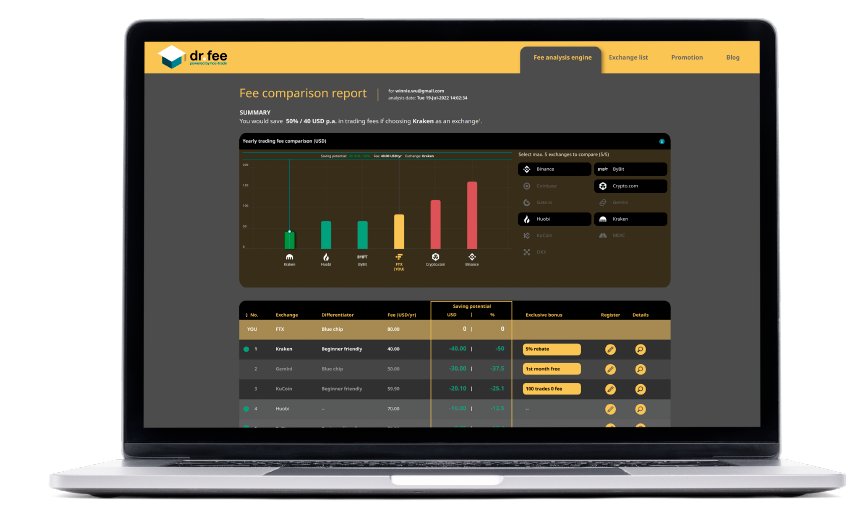
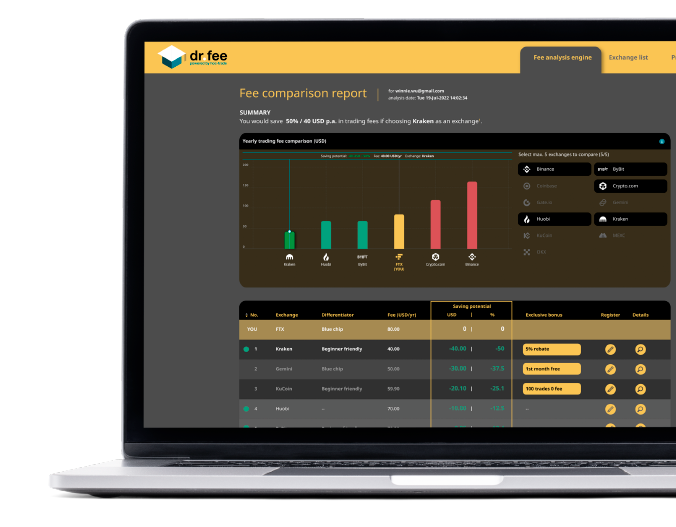
updates

diff --git a/landing-drfee.css b/landing-drfee.css
@@ -391,9 +391,9 @@ p.intro {
 	padding: 20px 12px;
 	max-width: 1024px;
 }
-@media only screen and (max-width: 768px) {
+@media only screen and (max-width: 1024px) {
 	.main-container {
-		padding: 20px 10px;
+		padding: 20px 20px;
 		max-width: calc(100% - 20px);
 	}
 }
@@ -1353,27 +1353,23 @@ a.btn-share:hover {
 /* topbanner */
 .topbanner {
 	display:flex;
-	justify-content:center;
+	justify-content:space-between;
 	align-items:flex-end;
 	position:relative;
-	height:calc(100vh - 100px);
+	padding:80px 0 0 0;
+	/*height:calc(100vh - 100px);*/
 	width:100vw;
 	background-image: url("img/top-theme-bg.png");
 	background-position: center;
 	background-size:cover;
-}
-@media only screen and (max-width: 768px) {
-	.topbanner {
-		height:calc(60vh - 70px);
-	}
 }
 .topbanner-headlines {
 	display:flex;
 	flex-direction:column;
 	justify-content: flex-end;
 	align-items: flex-start;
-	width:calc(50vw);
-	padding: 0 0 0 calc(50vw - 500px);
+	width:calc(50vw - 20px);
+	padding: 0 20px 0 calc(50vw - 500px);
 }
 @media only screen and (max-width: 768px) {
 	.topbanner-headlines {
@@ -1402,15 +1398,36 @@ a.btn-share:hover {
 	font-size:18px;
 	line-height: 1.25em;
 }
+@media only screen and (max-width: 768px) {
+	.headline-box h1, .headline-box h2, .headline-box h3, .headline-box p {
+		margin:0 20px 10px 0;
+	}
+	.headline-box h1 {
+		font-size:10vw;
+		line-height:0.75em;
+	}
+	.headline-box h2 {
+		font-size:3vw;
+		line-height: 1em;
+	}
+	.headline-box h3 {
+		font-size:18px;
+		line-height: 1.25em;
+	}
+	.headline-box p {
+		font-size:14px;
+		line-height: 1.25em;
+	}
+}
 .topbanner-pictures {
-	width:50vw;
+	width:40vw;
 	position:relative;
 }
 img.laptop {
 	position:absolute;
-	bottom:0px;
-	right:-150px;
-	width:calc(50vw + 150px);
+	bottom:10px;
+	right:0px;
+	width:50vw;
 	animation-name: laptopmove;
 	animation-duration: 1s;  
 	animation-timing-function: ease-out;
@@ -1418,9 +1435,9 @@ img.laptop {
 }
 img.mobilephone {
 	position:absolute;
-	bottom:0px;
-	right:-150px;
-	width:calc(50vw + 150px);
+	bottom:10px;
+	right:0px;
+	width:50vw;
 	opacity: 0;
 	animation-name: mobilephonemove;
 	animation-duration: 1s;  
@@ -1428,23 +1445,23 @@ img.mobilephone {
 	animation-fill-mode: forwards;
 	animation-delay: 0.5s;
 }
-@media only screen and (min-width: 1281px) {
-	img.laptop, img.mobilephone {
-		width:calc(45vw + 200px);
-	}
-}
 @media only screen and (max-width: 1024px) {
 	img.laptop, img.mobilephone {
-		width:calc(50vw + 200px);
+		
+	}
+}
+@media only screen and (max-width: 768px) {
+	img.laptop, img.mobilephone {
+		
 	}
 }
 @keyframes laptopmove {
-  from {right: -350px; opacity:0.5;}
-  to {right:-150px; opacity:1;}
+  from {right: -150px; opacity:0.5;}
+  to {right:-0px; opacity:1;}
 }
 @keyframes mobilephonemove {
-  from {bottom: 50px; opacity:0;}
-  to {bottom:0px; opacity:1;}
+  from {bottom: 60px; opacity:0;}
+  to {bottom:10px; opacity:1;}
 }
 .topbanner-fg-1 {
 	position:absolute;
@@ -1470,6 +1487,11 @@ ul.list li {
 	color:#FFFFFF;
 	line-height: 1.25em;
 	font-weight:bold;
+}
+@media only screen and (max-width: 768px) {
+	ul.list li {
+		font-size:14px;
+	}
 }
 /* number counter 
 @property --num {
@@ -1522,26 +1544,32 @@ span.topcount::after {
 	}
 }
 /* landing page content blocks */
-.full-content-block {
+.full-content-block-1, .full-content-block-2 {
 	display:flex;
-	width:100%;
+	width:100vw;
 	flex-direction:row;
-	justify-content:center;
-	align-items:stretch;
-}
-.half-content-block {
-	position:relative;
-	display:flex;
-	flex-direction:column;
 	justify-content:space-between;
-	width:calc(50% - 10px);
+	align-items:flex-start;
 }
-.half-left {
+.half-content-block-1, .half-content-block-2 {
+	position:relative;
+	display:inline-block;
+	width:50%;
+}
+.half-left-1, .half-left-2 {
 	margin:20px 20px 20px 0;
 }
-.half-right {
+.half-right-1, .half-right-2 {
 	margin:20px 0px 20px 20px;
 }
+/*@media only screen and (max-width: 1024px) {
+	.half-left-1, .half-left-2 {
+		margin:20px;
+	}
+	.half-right-1, .half-right-2 {
+		margin:20px;
+	}
+}*/
 /* solutions and approach */
 .solution-bg {
 	width:100%;

diff --git a/index-drfee.html b/index-drfee.html
@@ -126,15 +126,15 @@
 		<!-- problem -->
 		<div class="main-container">
 			<h1>What is the problem</h1>
-			<div class="full-content-block">
-				<div class="half-content-block half-left">
+			<div class="full-content-block-1">
+				<div class="half-content-block-1 half-left-1">
 					<h2>Manually comparing crypto trading fees is painful</h2>
 					<p>The highly complex fee structures among different crypto exchanges makes it so difficult to compare.</p>
 					<div class="mobile">
 						<img class="img-responsive" src="img/problem-1.png" />
 					</div>
 				</div>
-				<div class="half-content-block half-right">
+				<div class="half-content-block-1 half-right-1">
 					<h2>Fees among exchanges differ greatly</h2>
 					<p>You may only pay a fraction of your current fees at other exchanges</p>
 					<div class="mobile">
@@ -151,14 +151,14 @@
 		<h1 align="center">Our solution &amp; approach</h1>
 		<div class="solution-bg">
 			<div class="main-container" style="padding-bottom:0px;">
-				<div class="full-content-block" style="align-items:flex-end;">
-					<div class="half-content-block half-left">
+				<div class="full-content-block-2" style="align-items:flex-end;">
+					<div class="half-content-block-2 half-left-2">
 						<img src="img/logo-drfree-1.svg" width="300" />
 						<h2>Our fee analysis engine makes fee comparison fast &amp; easy</h2>
 						<p>Find your SPOT &amp; Perpetuals fee saving potential in less than 5 min.</p>
 						<p>Just connect your read-only crypto exchange API to get a detailed fee report. We find your fee saving potential by analysing your current fees and simulate your fees for the same trades at other exchanges.</p>
 					</div>
-					<div class="half-content-block half-right" style="margin-bottom:0px;">
+					<div class="half-content-block-2 half-right-2" style="margin-bottom:0px;">
 						<!-- Slider -->
 						<div id="slidertwo">
 							<div class="drfee-slides">

diff --git a/carousel-drfee.css b/carousel-drfee.css
@@ -1,8 +1,6 @@
 .carousel{
     height: 400px;
-    width: calc(100% + 30px);
-	margin-left:-15px;
-	margin-right:-15px;
+    width: 100%;
     margin-top: 20px;
     margin-bottom: 40px;
     overflow-x: hidden;
@@ -11,7 +9,7 @@
     justify-content: flex-start;
 	position:relative;
 }
-@media only screen and (max-width: 1023px) {
+/*@media only screen and (max-width: 1023px) {
 	.carousel{
 		width: calc(100% + 30px);
 		margin-left:-15px;
@@ -28,7 +26,7 @@
 		margin-top: 10px;
 		margin-bottom: 10px;
 	}
-}
+}*/
 .carousel-inner{
     height: 100%;
 	position:absolute;
@@ -69,11 +67,11 @@
     height: 48px;
     width: 48px;
     position: absolute;
-    left: 8px;
+    left: 0px;
     top: 50%;
     transform: translateY(-50%);
     background-image: url('img/prev-drfee.svg');
-    background-position: center;
+    background-position: center left;
     background-size: auto 100%;
     background-repeat: no-repeat;
     cursor: pointer;
@@ -85,11 +83,11 @@
     height: 48px;
     width: 48px;
     position: absolute;
-    right: 8px;
+    right: 0px;
     top: 50%;
     transform: translateY(-50%);
     background-image: url('img/next-drfee.svg');
-    background-position: center;
+    background-position: center right;
     background-size: auto 100%;
     background-repeat: no-repeat;
     cursor: pointer;
